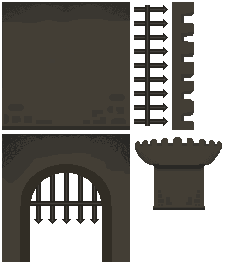
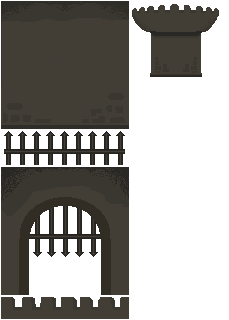
Implement a class representing the levels made with Tiled Map Editor

Changed region(s): [[0.0, 0.0, 0.9782, 1.0]]

diff --git a/src/screens/Level/index.js b/src/screens/Level/index.js
@@ -1,28 +1,47 @@
 import { Camera } from "@lib"
 import Timer from "@utils/Timer"
 import { easingFns } from "@utils/math"
+import SoundSprite from "@utils/Sound/SoundSprite"
+import { createAtlas } from "@lib/entities/TexRegion"
+import TiledLevel from "@utils/TiledLevel"
+import Texture from "@lib/entities/Texture"
 
 import config from "@config"
 import Wall from "@entities/Wall"
 import Player from "@entities/Player"
 import Crate from "@entities/Crate"
 
+import soundSpriteId from "@assets/audio/sprite.mp3"
+import soundMetaId from "@assets/audio/sprite.cson"
+import levelDataId from "@assets/levels/level.cson"
+import texatlasId from "@assets/images/texatlas.png"
+import texatlasMetaId from "@assets/images/atlasmeta.cson"
+
+
 class LevelScreen extends Camera {
-    background = "black"
+    background = "burlywood"
     initialized = false
     constructor({ game }) {
         super({ id: "root", viewport: config.viewport })
-        game.assetsCache.on("load", () => {
-            const wall = new Wall({ crestID: "wall", blockWidth: 80, blockHeight: 80 })
-            const player = new Player({ width: 80, height: 80, fill: "brown", id: "player", speed: 100, pos: { x: 2050 } })
-            const crate = new Crate({ id: "crate", width: 50, height: 50, pos: { x: 2000, y: 0 } })
-
+        const { assetsCache } = game
+        this.game = game
+        assetsCache.on("load", () => {
+            const wall = new Wall({ crestId: "wall", blockWidth: 80, blockHeight: 80 })
+            const player = new Player({ width: 80, height: 80, fill: "brown", id: "player", speed: 100, pos: { x: 300 } })
+            const crate = new Crate({ id: "crate", width: 50, height: 50, pos: { x: 200, y: 0 } })
+            const level = new TiledLevel({ 
+                data: assetsCache.get(levelDataId),
+                texatlas: createAtlas({ 
+                    meta: assetsCache.get(texatlasMetaId),
+                    texture: new Texture({ url: texatlasId })
+                })
+            })
+            level.pos.y = 100
             this.world =  { width: wall.width, height: wall.height }
             this.player = player
-            this.game = game
             this.setSubject(player)
 
-            this.add(wall)
+            this.add(level)
             this.add(crate)
             this.add(player)
 
@@ -32,11 +51,15 @@ class LevelScreen extends Camera {
         })
 
     }
-    onEnter(soundAtlas) { 
+    onEnter() { 
         if (!this.initialized) {
-            this.soundAtlas = soundAtlas
-            this.music = soundAtlas.create("music", { volume: 0, pan: -1 })
-            this.player.explosionSFX = soundAtlas.createPool("explosion") 
+            const { game } = this
+            const meta = game.assetsCache.get(soundMetaId)
+            const soundResource = game.assetsCache.get(soundSpriteId)
+            const soundSprite = new SoundSprite({ resource: soundResource, resourceId: soundSpriteId, meta })
+            this.soundSprite = soundSprite
+            this.music = soundSprite.create("music", { volume: 0, pan: -1 })
+            this.player.explosionSFX = soundSprite.createPool("explosion") 
             // this.music.play()
             this.initialized = true
 

diff --git a/lib/renderer/Canvas2D.js b/lib/renderer/Canvas2D.js
@@ -21,10 +21,6 @@ class Canvas2DRenderer {
     render(node) {
         const { type, pos, rotation, scale, pivot, anchor, initialRotation, invisible } = node
 
-        if (invisible) {
-            return
-        }
-        
         node.smooth ? this.ctx.translate(pos.x, pos.y): this.ctx.translate(Math.floor(pos.x), Math.floor(pos.y))
         initialRotation && this.ctx.rotate(Math.PI * initialRotation / 180)
         pivot && this.ctx.translate(pivot.x, pivot.y)
@@ -33,11 +29,14 @@ class Canvas2DRenderer {
         anchor && this.ctx.translate(-anchor.x, -anchor.y)
         pivot && this.ctx.translate(pivot.x, pivot.y)
         scale && this.ctx.scale(scale.x, scale.y)
-        
         switch(type) {
+            case types.texregion:
+                const { x, y } = node.meta[node.frame]
+                const {  w, h } = node
+                this.ctx.drawImage(node.texture.img, x, y, w, h, 0, 0, w, h)
+            break
             case types.texture:
                 this.ctx.drawImage(node.img, 0, 0)
-                // Math.random() < 0.1 && console.log(node.img)
             break
             case types.rect:
                 this.ctx.fillStyle = node.fill
@@ -68,11 +67,6 @@ class Canvas2DRenderer {
                 this.ctx.lineTo(0, 0)
                 this.ctx.fillStyle = node.topColor
                 this.ctx.fill()
-            break
-            case types.texregion:
-                const { x, y } = node.meta[node.frame]
-                const {  w, h } = node
-                this.ctx.drawImage(node.texture.img, x, y, w, h, 0, 0, w, h)
             break
             case types.text:
             break

diff --git a/lib/utils/Sound/SoundSprite.js b/lib/utils/Sound/SoundSprite.js
@@ -12,10 +12,10 @@ const toUsableFormat = meta => { // derive a new meta that our engine can use
 }
 
 class SoundSprite {
-    constructor({ resource, meta }) {
-        if (!resource) { throw new Error(`Null resource: ${resourceID}`) }
-        this.resource = resource
+    constructor({ resource, resourceID, meta }) {
+        if (!resource) { throw new Error(`Null audio resource: ${resourceID}`) }
         this.meta = toUsableFormat(meta)
+        this.resource = resource
     }
     create(frame, opts) {
         const { meta, resource } = this
@@ -25,7 +25,7 @@ class SoundSprite {
     }
     createPool(frame, opts = {}) {
         const newPool = new SoundPool({ 
-            resource: this.resourceID,
+            resource: this.resource,
             ...this.meta[frame], // destructuring to get start and duration props
             ...opts
         })

diff --git a/src/screens/MainMenu/index.js b/src/screens/MainMenu/index.js
@@ -1,10 +1,6 @@
 import { Node } from "@lib"
 import initUI from "./initUI"
 import { LEVEL } from "@screens/names"
-import SoundAtlas from "@utils/Sound/SoundAtlas"
-
-import soundAtlasFile from "@assets/audio/sprite.mp3"
-import soundAtlasMeta from "@assets/audio/sprite.cson"
 
 class MainMenuScreen extends Node {
     background = "black"
@@ -16,8 +12,8 @@ class MainMenuScreen extends Node {
     onEnter() {
         const { uiRoot, game } = this
         this.teardownUI = initUI({ uiRoot, onPlay: () => {
-            const soundAtlas = new SoundAtlas({ resourceID: soundAtlasFile, meta: soundAtlasMeta, assetsCache: game.assetsCache })
-            game.switchScreen(LEVEL, soundAtlas)
+
+            game.switchScreen(LEVEL)
         } })
     }
     onExit() {

diff --git a/src/screens/Loading/index.js b/src/screens/Loading/index.js
@@ -12,6 +12,7 @@ import cartonDarkImg from "@assets/images/cartonDark.png"
 import blockImg from "@assets/images/block.png"
 import texatlasImg from "@assets/images/texatlas.png"
 import texatlasMeta from "@assets/images/atlasmeta.cson"
+import levelDataUrl from "@assets/levels/level.cson"
 
 class TitleScreen extends Node {
     background = "black"
@@ -38,7 +39,8 @@ class TitleScreen extends Node {
             { url: blockImg },
             { url: cartonDarkImg },
             { url: texatlasImg },
-            { url: texatlasMeta, msg: "loading texture atlas" }
+            { url: texatlasMeta, msg: "loading texture atlas" },
+            { url: levelDataUrl, msg: "loading level data" },
         ])
 
         assetsCache.on("error", console.log)

diff --git a/src/entities/Wall/index.js b/src/entities/Wall/index.js
@@ -48,13 +48,12 @@ const asciiTilemap2 =
 `
 
 class Wall extends Node {
-    constructor({ img, crestID, gridWidth = 20, blockWidth = 30, blockHeight = 30, ...nodeProps} = {}) {
+    constructor({ img, crestId, gridWidth = 20, blockWidth = 30, blockHeight = 30, ...nodeProps} = {}) {
         super({ ...nodeProps })
         const tilemap = asciiTilemap0.split("\n")
-        console.log(tilemap[1].length)
         this.width = tilemap[1].length * blockWidth
         this.height = tilemap.length * blockHeight
-        this.slategreyBlocks = new Node({ id: crestID })
+        this.slategreyBlocks = new Node({ id: crestId })
         this.greyBlocks = new Node()
         this.add(this.slategreyBlocks)
             .add(this.greyBlocks)

diff --git a/lib/utils/TiledLevel.js b/lib/utils/TiledLevel.js
@@ -1,0 +1,14 @@
+import { Node } from "@lib"
+
+class TiledLevel extends  Node {
+    constructor({ data, texatlas, ...nodeProps }) {
+        super({ ...nodeProps })
+        const { collisionRects, tiles } = data
+        tiles.forEach(tile => {
+            const region = texatlas.createRegion({ frame: tile.name, pos: { x: tile.x, y: tile.y }})
+            this.add(region)
+        })
+    }
+}
+
+export default TiledLevel

diff --git a/webpack.config.js b/webpack.config.js
@@ -24,7 +24,7 @@ module.exports = {
     module: {
         rules: [
             {
-                test: /\.(png|jpe?g|mp3|ogg|wav|cson)$/,
+                test: /\.(png|jpe?g|mp3|ogg|wav|cson|bson)$/,
                 use: {
                     loader: "file-loader",
                     options: {
